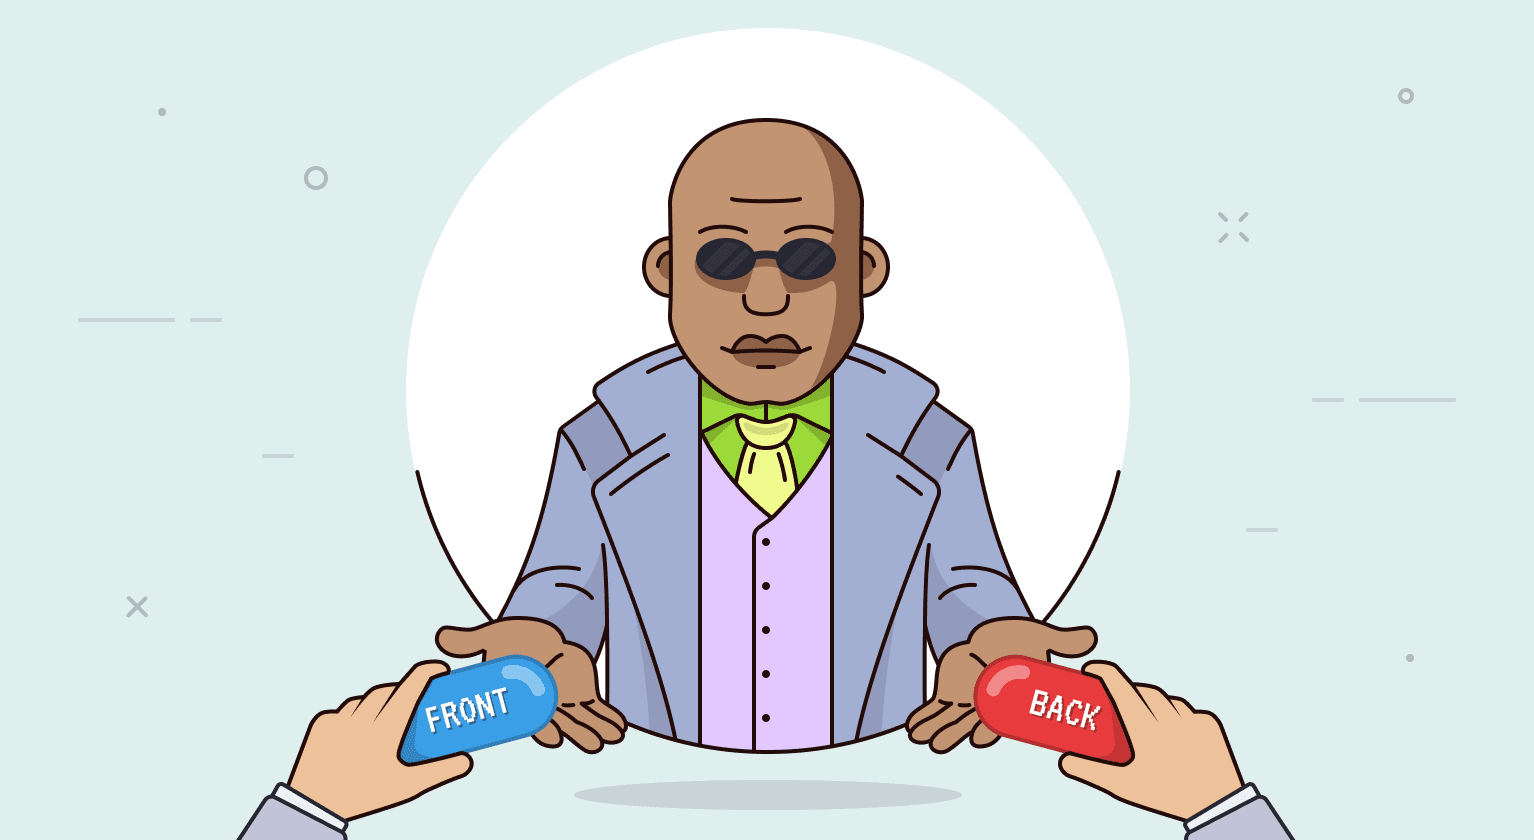
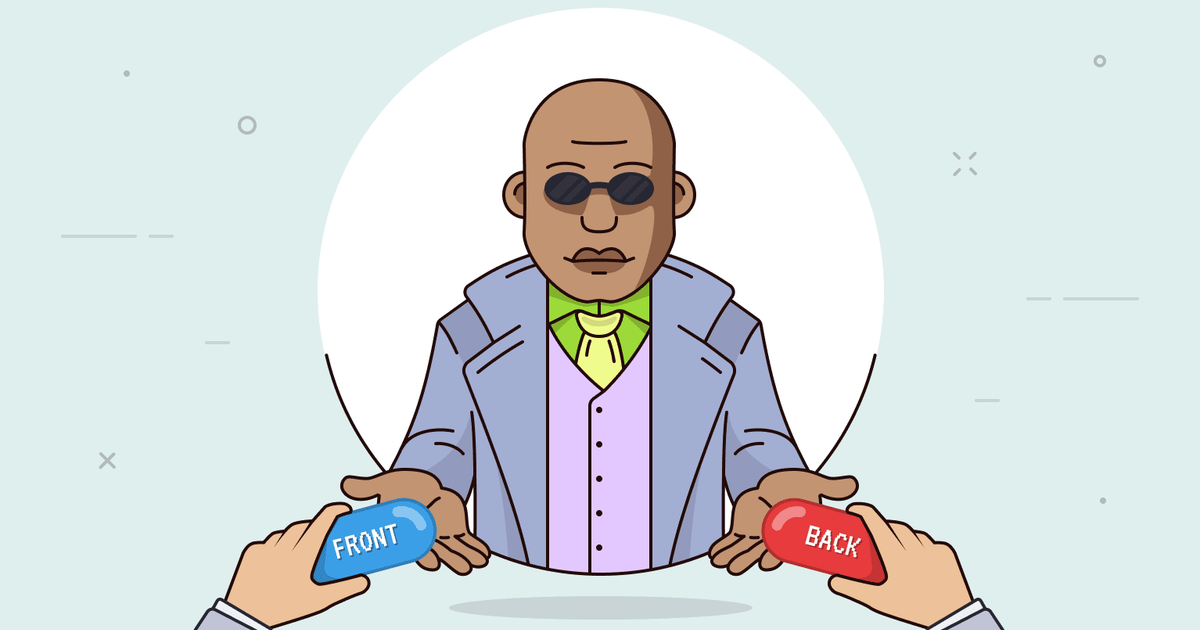
resize blog post thumbnails to 1200x630

diff --git a/assets/sass/critical/blog.scss b/assets/sass/critical/blog.scss
@@ -37,6 +37,8 @@
 
   &--item {
     border: 1px solid $border-color-default;
+    border-bottom: 0;
+    border-left: 0;
     border-radius: $border-radius-default;
     display: flex;
     flex-direction: column;
@@ -50,20 +52,15 @@
     @include transition(opacity 0.35s);
     flex-shrink: 0;
     height: auto;
-    max-height: 300px;
-    object-fit: cover;
-    object-position: center;
     width: 100%;
     @include media-up(md) {
-      max-height: unset;
-      height: 100%;
-      width: 220px;
+      width: 320px;
     }
     @include media-up(lg) {
-      width: 400px;
+      width: 450px;
     }
     @include media-up(xl) {
-      width: 450px;
+      width: 515px;
     }
 
     &:hover {
